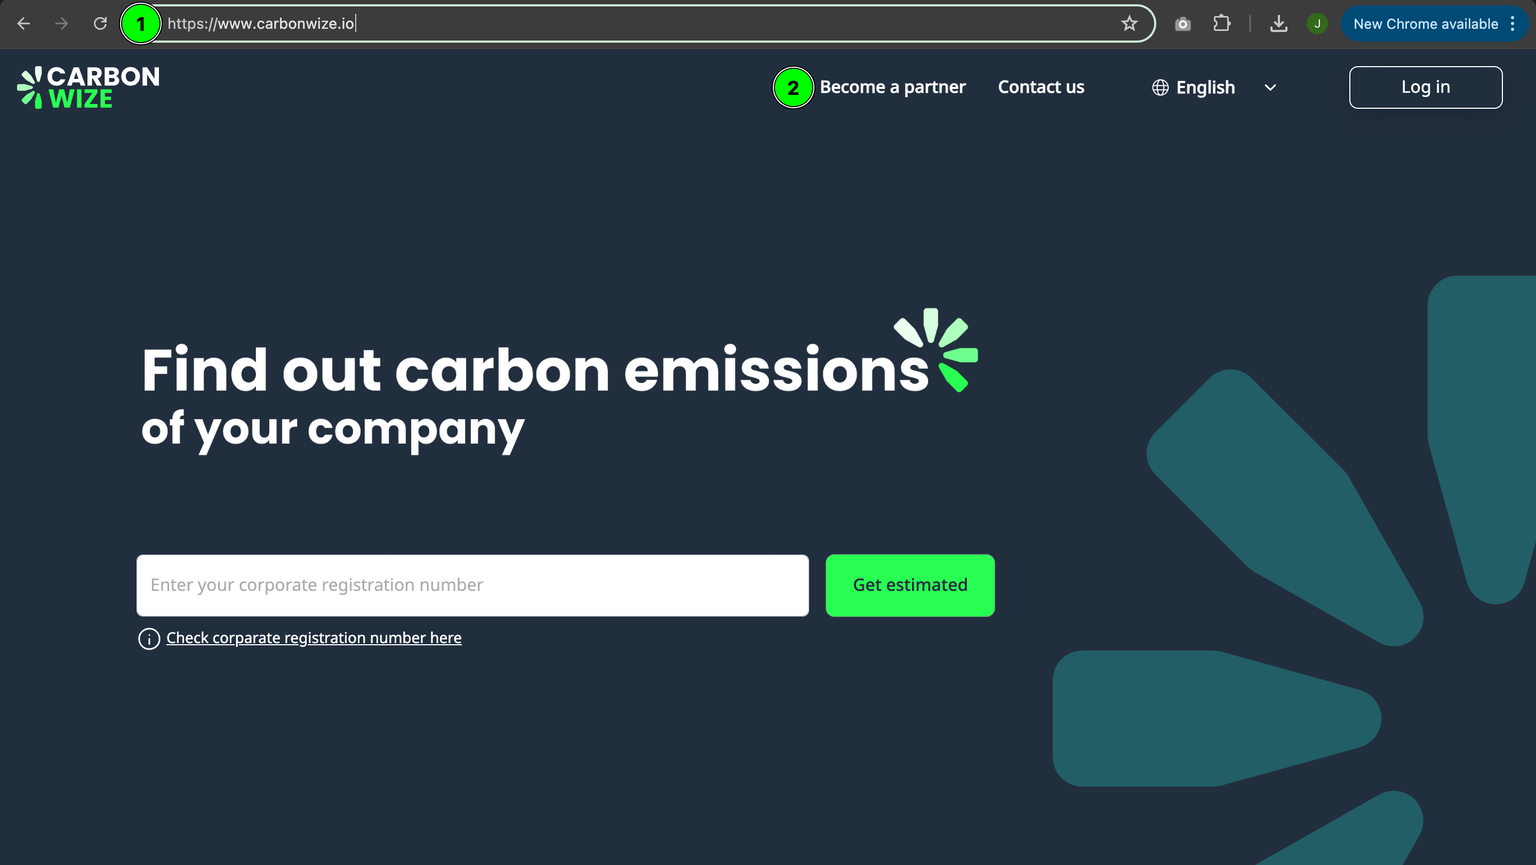
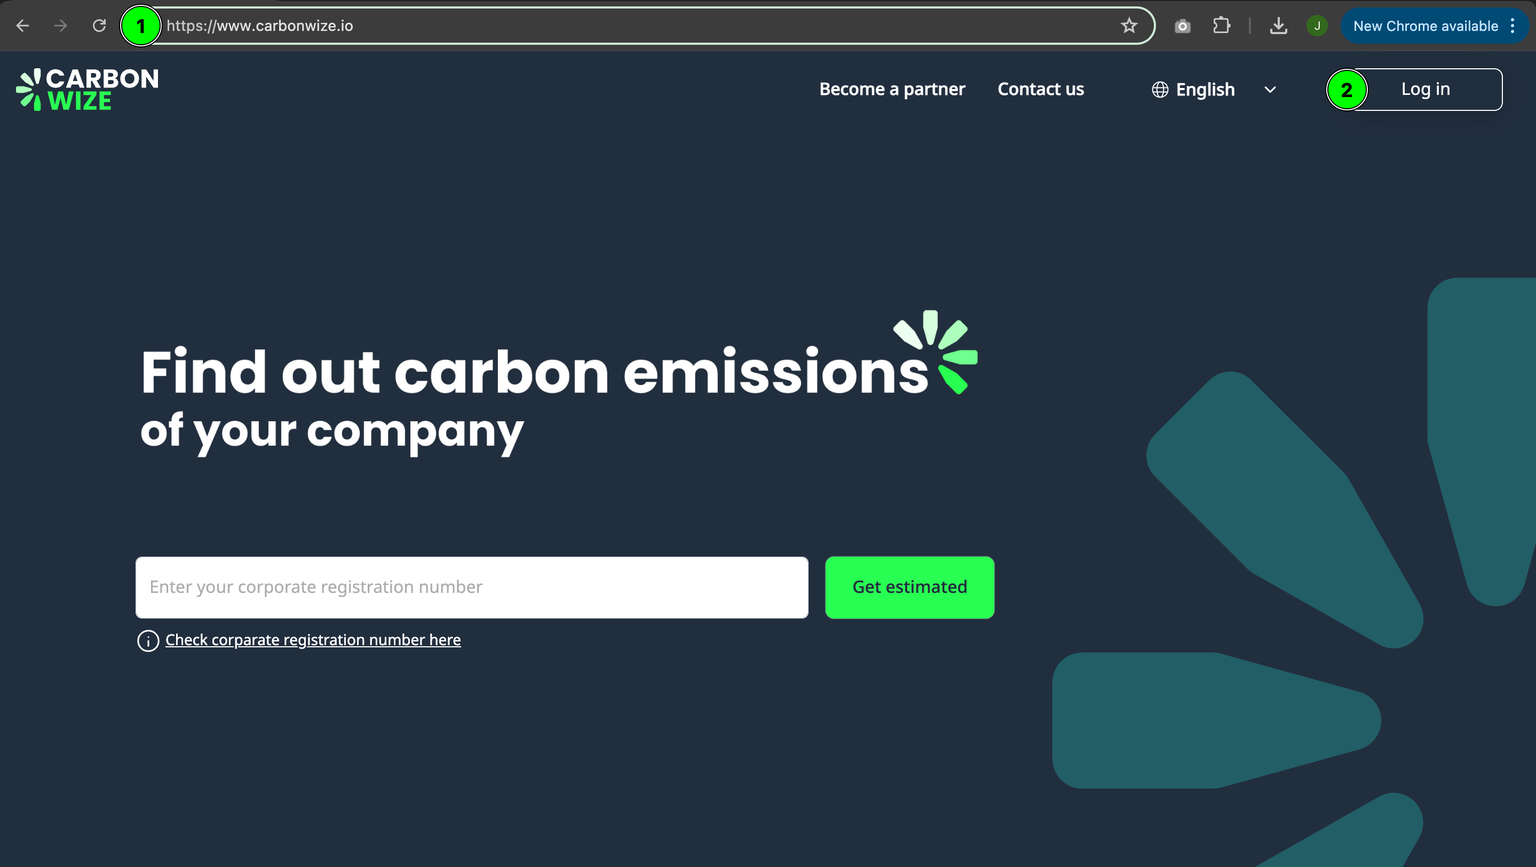
GITBOOK-9: No subject

diff --git a/en/basic-information/become-a-partner.md b/en/basic-information/become-a-partner.md
@@ -1,11 +1,11 @@
 # ✍ Become a partner
 
-<figure><img src="../.gitbook/assets/image.png" alt=""><figcaption></figcaption></figure>
+<figure><img src="../.gitbook/assets/image (1).png" alt=""><figcaption></figcaption></figure>
 
 1. Go to the website [https://www.carbonwize.io/](https://www.carbonwize.io/)
 2. Press the button [Become a partner](https://www.carbonwize.io/become-partner)
 
-<figure><img src="../.gitbook/assets/image (1).png" alt=""><figcaption></figcaption></figure>
+<figure><img src="../.gitbook/assets/image (1) (1).png" alt=""><figcaption></figcaption></figure>
 
 1. Fill in the information completely.
 2. Press the button submit

diff --git a/en/basic-information/login.md b/en/basic-information/login.md
@@ -1,0 +1,12 @@
+# 💻 Login
+
+<figure><img src="../.gitbook/assets/image.png" alt=""><figcaption></figcaption></figure>
+
+1. Go to the website [https://www.carbonwize.io/](https://www.carbonwize.io/)
+2. Press the button [Login](https://app.carbonwize.io/)
+
+<figure><img src="../.gitbook/assets/image (4).png" alt=""><figcaption></figcaption></figure>
+
+1. Enter email
+2. Enter password
+3. Press the Sign in button

diff --git a/en/SUMMARY.md b/en/SUMMARY.md
@@ -6,3 +6,4 @@
 
 * [✍ Become a partner](basic-information/become-a-partner.md)
 * [✍ Contact us](basic-information/contact-us.md)
+* [💻 Login](basic-information/login.md)
